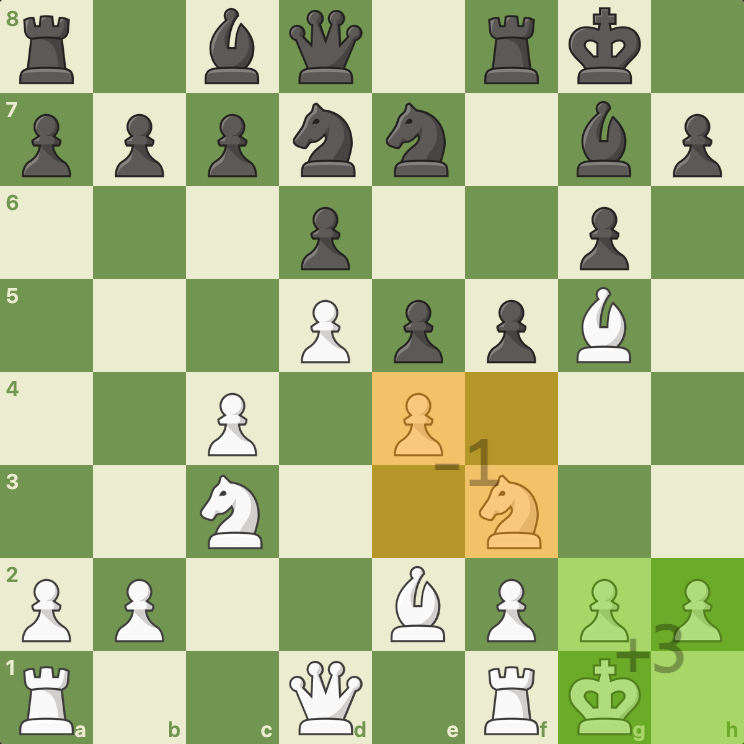
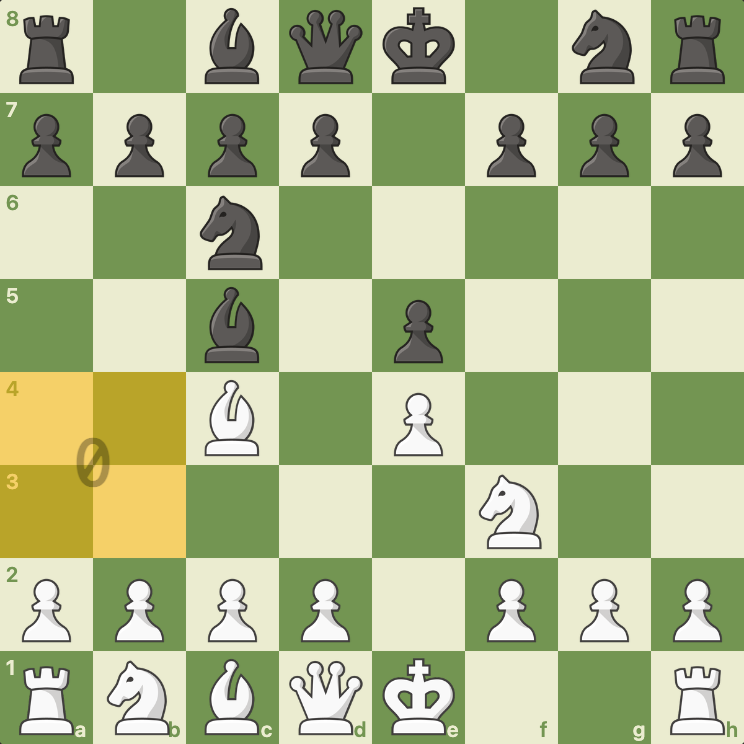
Update screenshot with Giuoco Piano midgame position, add to README

diff --git a/README.md b/README.md
@@ -22,6 +22,12 @@ A Chrome MV3 extension that overlays a per-square "pressure" heatmap on chess.co
 - Contested squares (defended and attacked) get the debug treatment with the net-pressure number on top
 - Toolbar popup: toggle on/off, force orientation (white / black / auto), refresh
 
+## Screenshot
+
+![Heatmap on Giuoco Piano midgame position](assets/chess_heatmap_screenshot.png)
+
+*Italian Game (Giuoco Piano) after 4. c3 — contested squares show net-pressure numbers with red→yellow→green coloring. Red squares favour Black, green favour White, yellow is balanced.*
+
 ## Architecture
 
 This is intentionally a **no-build** project. No `package.json`, no bundler, no linter, no test runner. Plain JS files loaded directly by Chrome.
